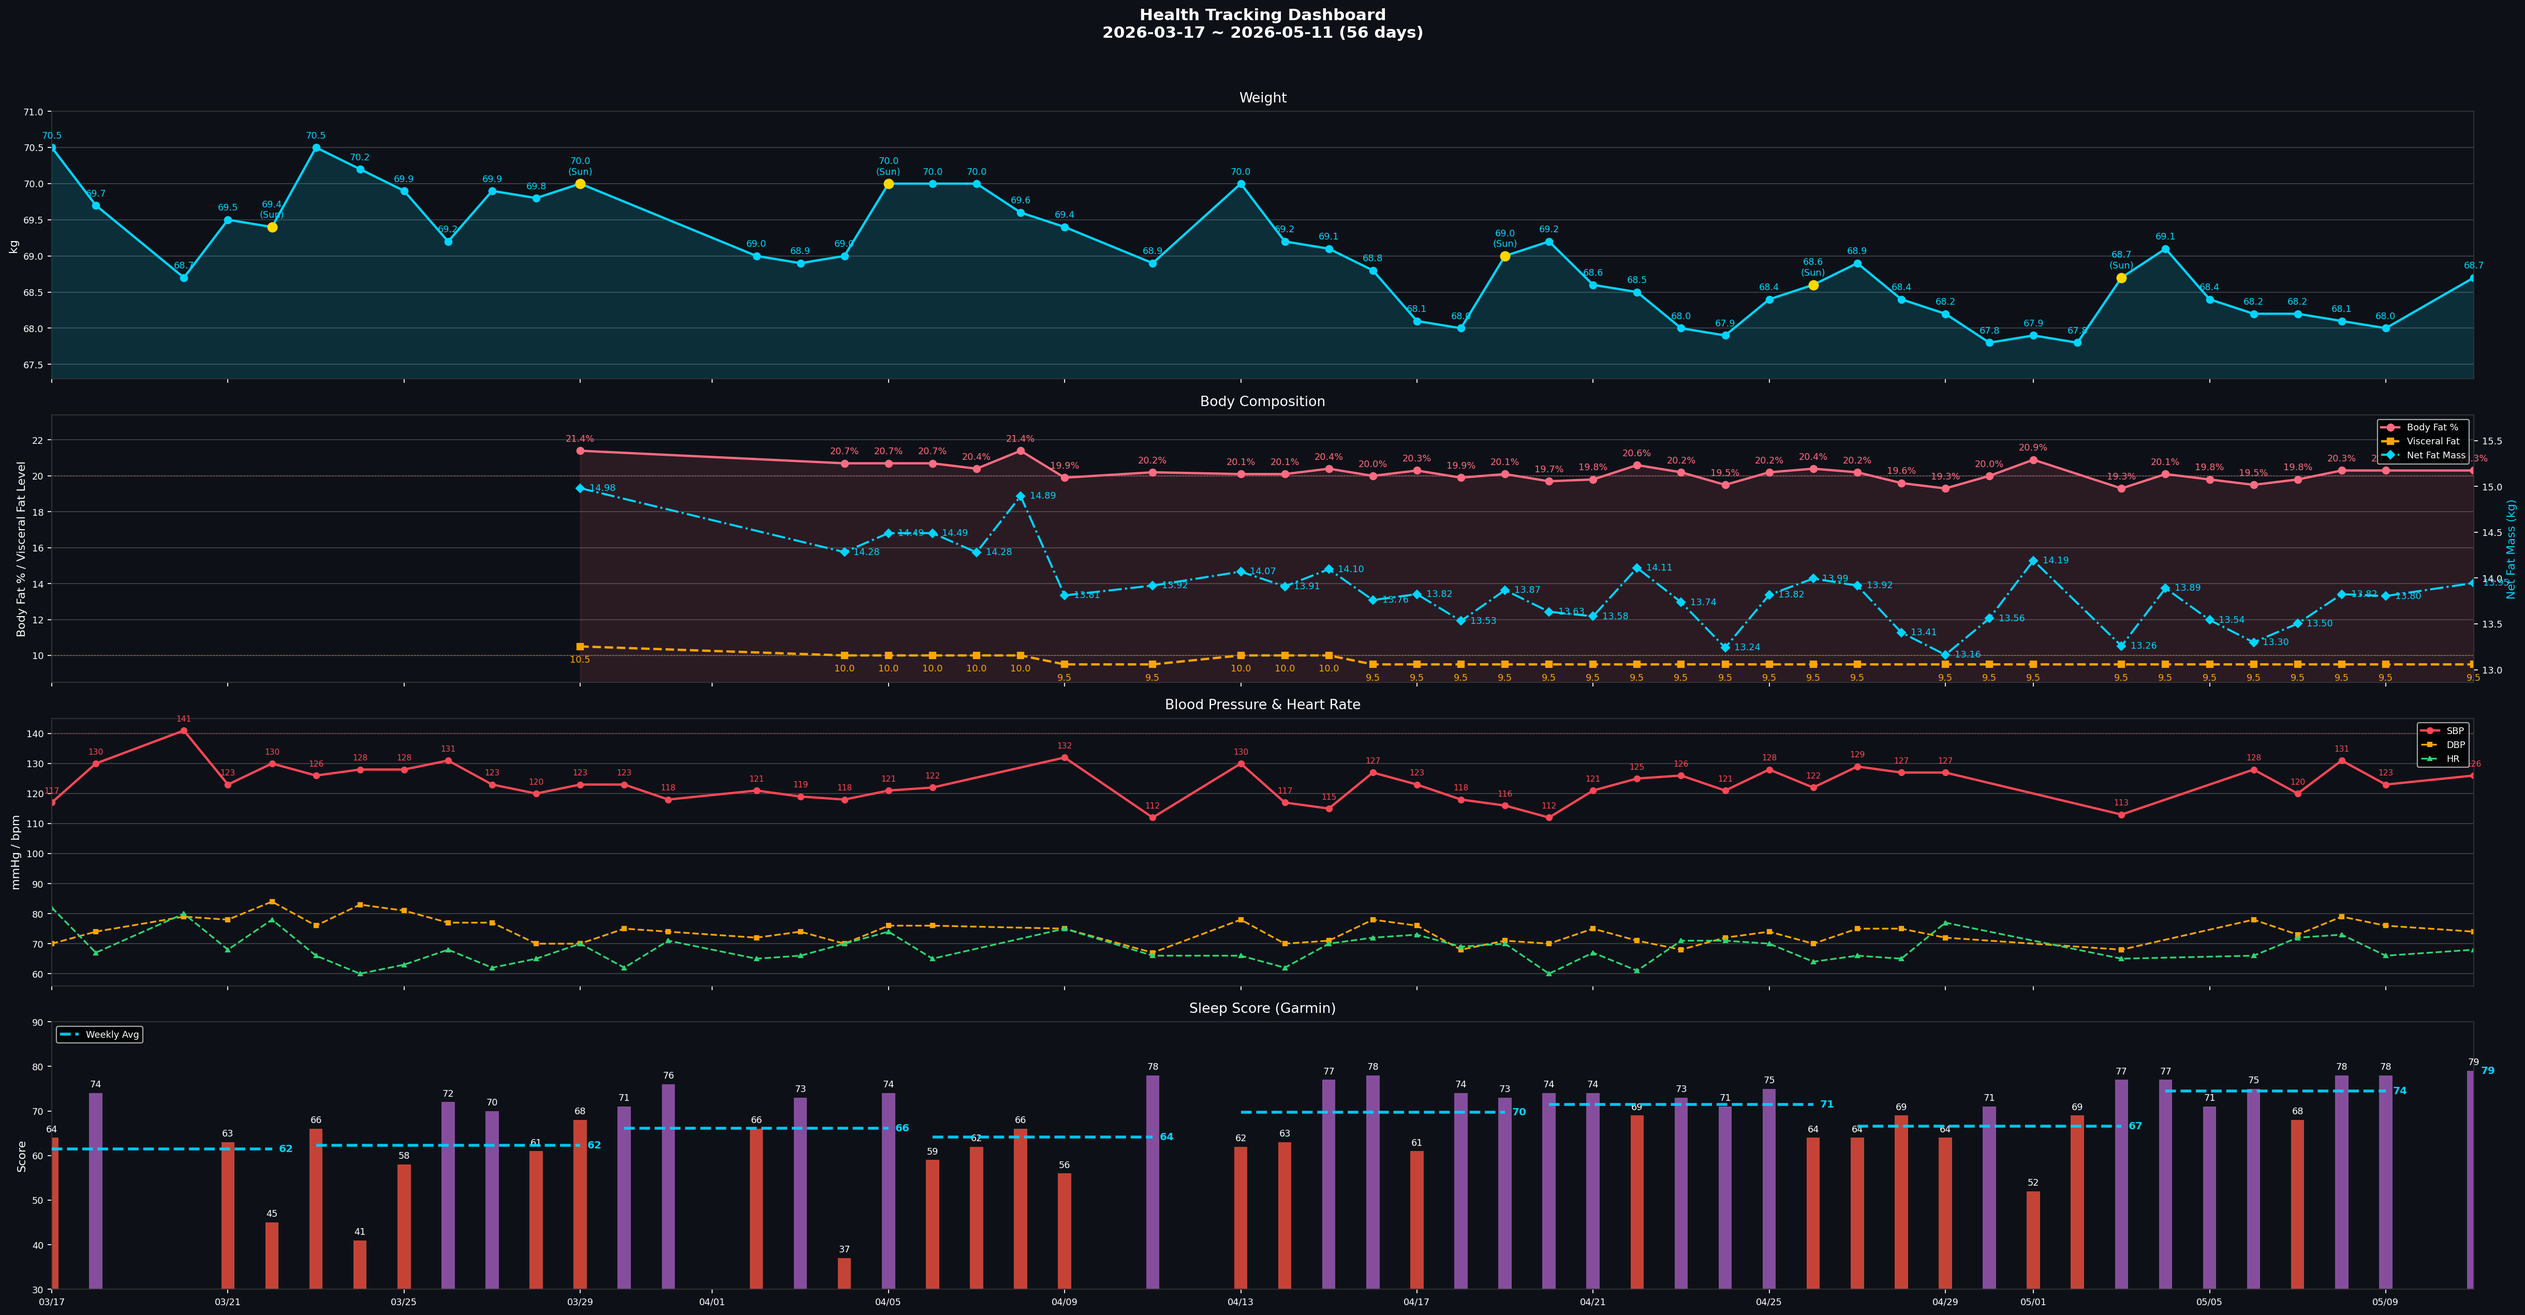
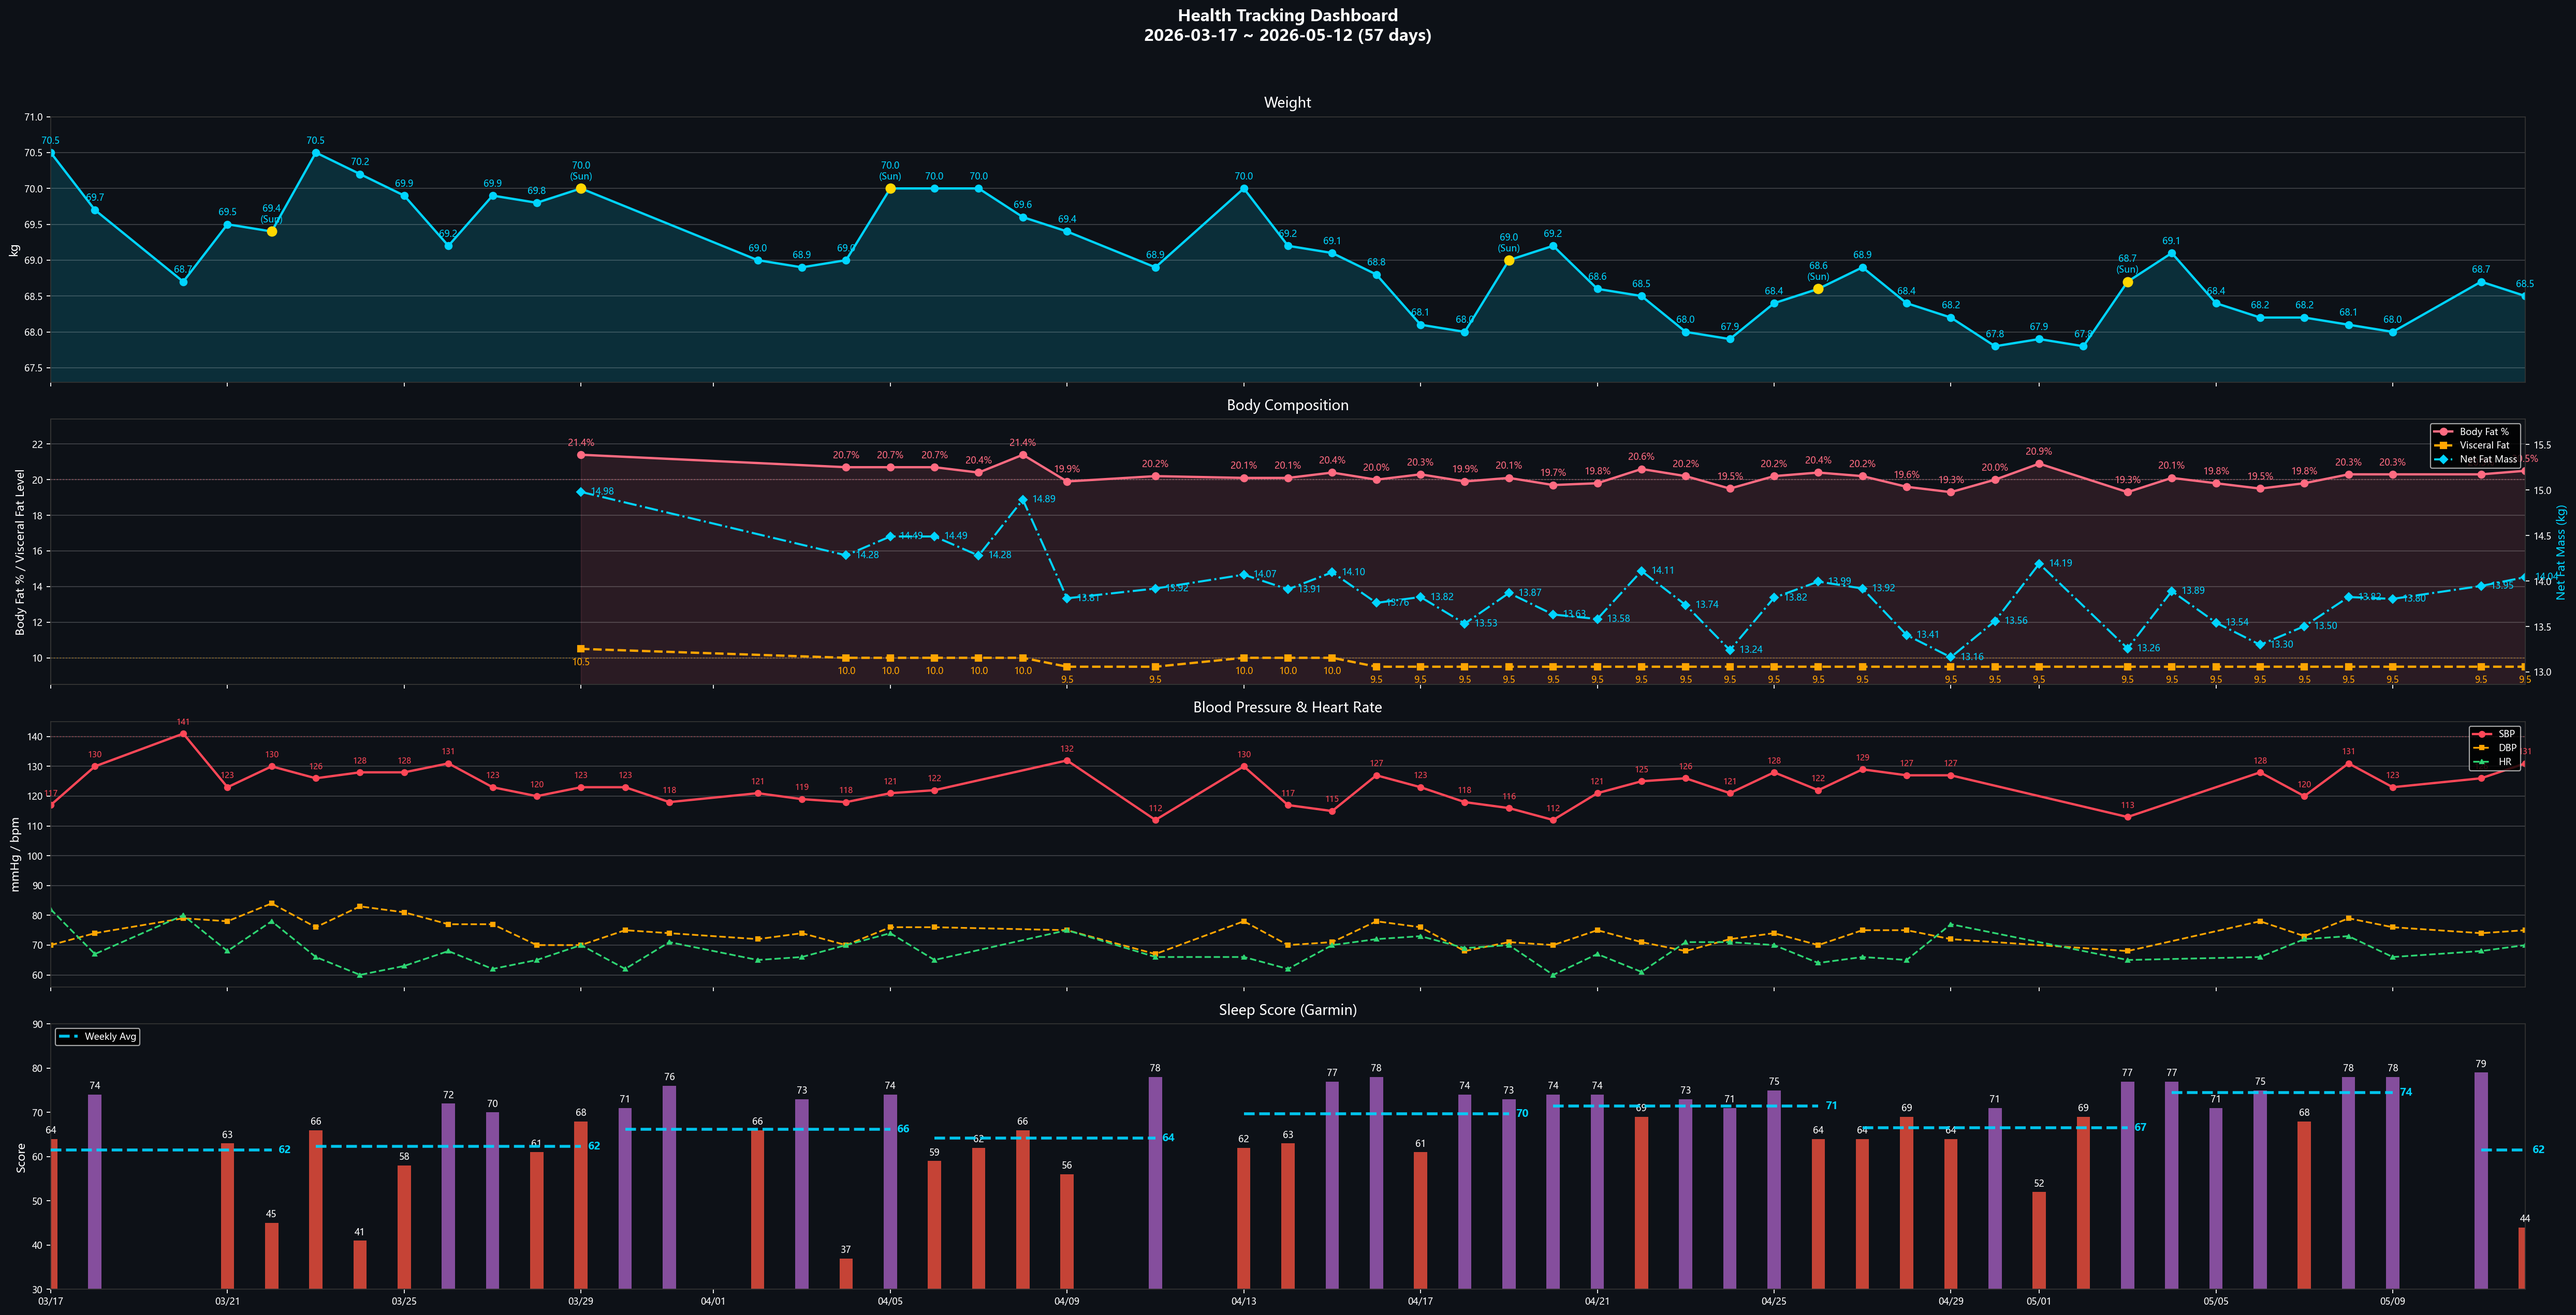
Daily check-in 2026-05-12：Sleep Score 44 / TST 4h / SpO2 連 7 晚 < 88%
- 體重 68.5kg / 體脂 20.5% / 內臟脂肪 9.5
- BP 131/75/70（正常範圍）
- Sleep Score 44、Body Battery 36、REM 0 分、TST 4h 4m → 紅旗
- SpO2 最低 86%，連 7/7 晚 < 88% → 本週內預約 PSG
- 昨日飲水 0.9L（連 2 天 < 2.0L）

diff --git a/data.js b/data.js
@@ -9,8 +9,8 @@ window.HC_DATA = {
     lede:    { en: "Sleep, BP, lipids, uric acid — one shared metabolic root. Lifestyle stacks first; medication only after lifestyle plateaus.",
                zh: "睡眠、血壓、血脂、尿酸——共享同一個代謝根源。生活方式介入優先，等到效果平台期再考慮藥物。" },
     progressLbl: { en: "Weight progress · 70 → 65 kg", zh: "體重進度 · 70 → 65 公斤" },
-    progressMeta: { en: "Day 56 · 68.0 kg · Sat official (5/9)", zh: "第 56 天 · 68.0 公斤 · 週六正式（5/9）" },
-    startDate: { en: "Start date · Mar 17, 2026 · Last sync 5/11", zh: "起始日期 · 2026 年 3 月 17 日 · 最後同步 5/11" },
+    progressMeta: { en: "Day 57 · 68.0 kg · Sat official (5/9)", zh: "第 57 天 · 68.0 公斤 · 週六正式（5/9）" },
+    startDate: { en: "Start date · Mar 17, 2026 · Last sync 5/12", zh: "起始日期 · 2026 年 3 月 17 日 · 最後同步 5/12" },
     startWeight: 70,
     targetWeight: 65,
     currentWeight: 68.0,
@@ -21,13 +21,13 @@ window.HC_DATA = {
     {
       sys: "heart", name: { en: "Blood Pressure", zh: "血壓" },
       val: "126/76", unit: "mmHg",
-      delta: { en: "W19 weekly avg (4 days) · target met (<130) · last 126/74 (5/11)", zh: "W19 週均（4 天）· 已達標 (<130) · 最新 126/74 (5/11)" },
+      delta: { en: "W19 weekly avg (4 days) · target met (<130) · last 131/75 (5/12)", zh: "W19 週均（4 天）· 已達標 (<130) · 最新 131/75 (5/12)" },
       cadence: { en: "Daily · weekly avg", zh: "每日 · 週均" },
       status: "ok",
     },
     {
       sys: "sleep", name: { en: "Sleep Score", zh: "睡眠分數" },
-      val: "79", unit: "Garmin",
+      val: "44", unit: "Garmin",
       delta: { en: "5/4 · OSA flag: T90 18.4% (severe)", zh: "5/4 · OSA 紅旗：T90 18.4%（重度）" },
       cadence: { en: "Daily · Garmin", zh: "每日 · Garmin" },
       status: "warn",
@@ -820,14 +820,14 @@ window.HC_DATA = {
   tracker: {
     // [SBP, DBP] — gaps filled with prior reading
     bp: [
-      [129,75], [127,75], [127,72], [127,72], [127,72], [127,72], [113,68], [113,68], [113,68], [128,78], [120,73], [131,79], [123,76], [126,74],
+      [127,75], [127,72], [127,72], [127,72], [127,72], [113,68], [113,68], [113,68], [128,78], [120,73], [131,79], [123,76], [126,74], [131,75],
     ],
     // 4/21–5/4 daily weight (kg)
-    weight: [68.9, 68.4, 68.2, 67.8, 67.9, 67.8, 68.7, 69.1, 68.4, 68.2, 68.2, 68.1, 68, 68.7],
+    weight: [68.4, 68.2, 67.8, 67.9, 67.8, 68.7, 69.1, 68.4, 68.2, 68.2, 68.1, 68, 68.7, 68.5],
     // Garmin Sleep Score
-    sleep:  [64, 69, 64, 71, 52, 69, 77, 77, 71, 75, 68, 78, 78, 79],
+    sleep:  [69, 64, 71, 52, 69, 77, 77, 71, 75, 68, 78, 78, 79, 44],
     // Body Battery waking
-    bb:     [57, 57, 58, 51, 47, 41, 54, 49, 47, 56, 47, 37, 48, 55],
+    bb:     [57, 58, 51, 47, 41, 54, 49, 47, 56, 47, 37, 48, 55, 36],
   },
 
   // ===== Running — started 2026-04-26 =====

diff --git a/reviews/daily/2026-05-12.md b/reviews/daily/2026-05-12.md
@@ -1,0 +1,98 @@
+# 晨間健康紀錄 — 2026-05-12
+
+*3 分鐘。起床後立即完成。記錄，不分析。*
+
+---
+
+## 體重
+
+**今日：68.5 kg**
+**體脂率：20.5 %**
+**內臟脂肪等級：9.5**
+
+*每週六早晨為正式紀錄（排尿後、進食前；連 5 個工作日後、週末大餐前的真實低點）。其他日可選填。*
+
+---
+
+## 血壓（晨間）
+
+*起床後 1 小時內，上完廁所、進食前。坐下安靜 5 分鐘，連量兩次取第二次。*
+
+| 次數 | 收縮壓 | 舒張壓 | 心率 |
+|------|--------|--------|------|
+| 第一次 | — | — | — |
+| 第二次 | 131 | 75 | 70 |
+
+---
+
+## 睡眠狀態
+
+**Garmin 偵測入睡：** 21:25
+**實際起床：** 01:31
+**中途醒來：** 無（但總時長僅 4h 4m，提早起床）
+**Garmin Sleep Score：** 44 / 100 ⚠（極低）
+**Garmin Body Battery 起床值：** 36 ⚠（< 50）
+**主觀恢復感：** 2 / 5（疲憊）
+**深眠：** 72 分｜**REM：** 0 分 ⚠（REM 缺失，常見於提早覺醒或睡眠片段化）
+
+### SpO2 夜間最低（7 晚趨勢）
+
+| 日期 | -6 | -5 | -4 | -3 | -2 | -1 | 今晨 |
+|------|----|----|----|----|----|----|------|
+| 日期 | 05-06 | 05-07 | 05-08 | 05-09 | 05-10 | 05-11 | 05-12 |
+| 最低 % | 84 | 79 | 87 | 85 | 84 | 84 | 86 |
+
+**今晨日均 SpO2：** 96%
+**< 88% 連續晚數：** **7/7 晚** → **OSA 紅旗，請本週內預約 PSG**（24 晚累計 100% 低於 88%；今晨 T90 = 20.4%、總 desat 50 分鐘）
+
+**SpO2 全夜圖：** ![](./spo2/spo2_desat_2026-05-12.png)
+**SpO2 趨勢圖：** ![](./spo2/spo2_desat_trend.png)
+**SpO2 多晚 Overlay（rolling 7 晚）：** ![](./spo2/spo2_overlay_2026-05-06_to_2026-05-12_elapsed.png)
+
+*Sleep Score 44 + Body Battery 36 + REM 0 + 總時長 4h — 此夜為近期最差組合；今日避免咖啡因晚於 12:00，傍晚補一段 20-30 min nap（< 30 min 不影響夜間入睡），晚上嚴格 21:30 上床。*
+
+---
+
+## 昨日回顧
+
+**實際飲水量：** 0.9 L ⚠（連 2 天 < 2.0L — 本週重點關注；高尿酸最佳 2.8–3.0L）
+**昨日活動消耗：** 317 kcal（主動 277 + BMR 40；騎車 ×2 + meditation 10 分）
+  - 在 100-300 kcal 區間 → 今日維持原計畫
+**昨日 Na / K / Na-K ratio：** 未紀錄（無 food log）
+
+---
+
+## 身體信號
+
+*任何張力、疼痛、疲勞、異常 — 或「清」。記位置、性質、強度。*
+
+| 部位 | 性質 | 強度 (0-10) |
+|------|------|-------------|
+| 雙腳 | 痠 | 3 |
+| 雙肩 | 緊繃 | 3 |
+
+---
+
+## 今日計畫速記
+
+- [ ] 飲水目標：2.5 L（17:00 前完成主要量；昨日 0.9L 嚴重落後，今日從 06:30 起每 90 min 飲 300 mL）
+- [ ] 補充品（核心）：
+  - 早餐：D3 2000 IU + K2 MK-7 180 mcg + L-Citrulline 4 g + 益生菌
+  - 午餐前 30 min：Psyllium 5 g + 350 mL 水
+  - 晚餐前 30 min：Psyllium 5 g + 350 mL 水
+  - 晚餐後：魚油 ×4（18:30 ×2 + 19:30 ×2）
+  - 睡前（21:00）：鎂甘胺酸 400 mg + 酸櫻桃 1000-2000 mg + Glycine 3 g
+  - 茶飲：洛神花 ×2 杯（早 + 14:00 前）
+  - 食物層：南瓜籽 30 g（15:30）+ 菇蕈 100-130 g/天
+- [ ] 運動（17:00 固定）：待定（雙腳痠 — 改低衝擊：Zone 2 騎車 30 min 或快走）
+- [ ] 活動度/伸展：雙肩門框胸肌伸展 + 肩胛繞環（09:30 + 20:30 兩次）、雙腳小腿牆推伸展 ×30 秒
+- [ ] Wind-down（20:00 燈光降 + 螢幕濾鏡，液體截止）
+- [ ] **嚴格 21:30 上床 / 熄燈 22:00**（補昨夜 TST 不足）
+
+---
+
+💡 PT 建議：今夜為近期最差睡眠（Sleep Score 44 / REM 0 / 僅 4h），加上 SpO2 連 7 晚 < 88%，**本週內務必預約 PSG**。雙腳痠 + 雙肩緊強度 3 屬可控範圍，今日避免高衝擊，改低衝擊 Zone 2；飲水昨日僅 0.9L 已連 2 天 < 2.0L，今日早午前完成 1.5L 為硬指標。
+
+---
+
+*Filed: reviews/daily/2026-05-12.md*

diff --git a/reviews/weekly/2026-W20.md b/reviews/weekly/2026-W20.md
@@ -31,9 +31,9 @@
 
 |  | 一 | 二 | 三 | 四 | 五 | 六 | 日 |
 |--|----|----|----|----|----|----|-----|
-| 體重 (kg) | 68.7 | | | | | | |
-| 體脂率 (%) | 20.3 | | | | | | |
-| 內臟脂肪 | 9.5 | | | | | | |
+| 體重 (kg) | 68.7 | 68.5 | | | | | |
+| 體脂率 (%) | 20.3 | 20.5 | | | | | |
+| 內臟脂肪 | 9.5 | 9.5 | | | | | |
 
 **本週正式讀數（週六早晨）：** _____ kg｜體脂率：_____%｜內臟脂肪：_____
 **上週正式讀數（週六早晨）：** _____ kg｜體脂率：_____%｜內臟脂肪：_____
@@ -46,7 +46,7 @@
 | 日期 | 收縮壓 | 舒張壓 | 心率 |
 |------|--------|--------|------|
 | 05-11 (一) | 126 | 74 | 68 |
-| 05-12 (二) | | | |
+| 05-12 (二) | 131 | 75 | 70 |
 | 05-13 (三) | | | |
 | 05-14 (四) | | | |
 | 05-15 (五) | | | |
@@ -64,7 +64,7 @@
 | 日期 | 就寢 | 起床 | 中途醒 | Sleep Score | Body Battery | 主觀恢復 |
 |------|------|------|--------|-------------|--------------|----------|
 | 05-11 (一) | 21:46 | 06:01 | 0 | 79 | 55 | 3 |
-| 05-12 (二) | | | | | | |
+| 05-12 (二) | 21:25 | 01:31 | 0 | 44 | 36 | 2 |
 | 05-13 (三) | | | | | | |
 | 05-14 (四) | | | | | | |
 | 05-15 (五) | | | | | | |
@@ -85,7 +85,8 @@
 
 | 信號（部位+性質） | 出現天數 | 平均強度 | 趨勢（↑↓→） | 備註 |
 |-------------------|----------|----------|-------------|------|
-| 雙肩 緊繃 | 1 | 3 | → | 首日記錄 |
+| 雙肩 緊繃 | 2 | 3 | → | 連 2 天 |
+| 雙腳 痠 | 1 | 3 | → | 首日記錄 |
 
 **反覆出現（≥ 3 天）：** 無
 
@@ -108,7 +109,8 @@
 
 | 日期 | 運動內容（含組數/時間） |
 |------|------------------------|
-| 05-11 | 依預設計畫 |
+| 05-11 | 騎車 30.4 min（兩段）+ meditation 10 min；主動 277 kcal |
+| 05-12 | 待定（雙腳痠 → 改低衝擊 Zone 2 騎車或快走 30 min） |
 
 ---
 
@@ -135,8 +137,9 @@
 
 | 警報 | 應對措施 | 效果 |
 |------|----------|------|
-| SpO2 連續 6/7 晚 < 88%（05-11 T90=22.2%） | 預約 PSG 多項睡眠檢查 | 待 |
-| 昨日飲水 1.5L < 2.0L | 本週重點關注；17:00 前完成 60-70% 目標量 | 待 |
+| SpO2 連 7/7 晚 < 88%（05-12 T90=20.4%、50 min desat） | 預約 PSG 多項睡眠檢查（本週內） | 待 |
+| Sleep Score 44 + BB 36 + REM 0（05-12，TST 4h 4m） | 今日 21:30 嚴格上床；咖啡因 ≤ 12:00；補 20-30 min nap | 待 |
+| 連 2 天飲水 < 2.0L（05-10 0L、05-11 0.9L） | 今日 06:30 起每 90 min 飲 300 mL；早午前完成 1.5L | 待 |
 
 ---
 

diff --git a/reports/daily-garmin/2026-05-11.md b/reports/daily-garmin/2026-05-11.md
@@ -12,13 +12,13 @@
 - RHR：58.0 bpm
 
 ## 壓力
-- 日均：25
+- 日均：28
 
 ## 步數
-- 總計：4,858
+- 總計：7,799
 
 ## SpO2
-- 日均：96.0%
+- 日均：95.0%
 - 最低：84%
 
 ## 活動
@@ -26,11 +26,12 @@
 |------|------|------|------|---------|---------|-----------|--------|
 | 08:59 | cycling | 1.54 km | 10.8 min | 132 | 149 | 92 | 106 |
 | 12:38 | cycling | 4.61 km | 19.6 min | 143 | 163 | 185 | 211 |
-| **小計** | 2 段 | **6.15 km** | **30.4 min** | — | — | **277** | **317** |
+| 20:55 | meditation | 0.00 km | 10.0 min | 75 | 101 | 0 | 0 |
+| **小計** | 3 段 | **6.15 km** | **40.4 min** | — | — | **277** | **317** |
 
 ## 飲水
 - 實際：0.90 L
 - 目標：2.00 L
-- 運動流汗耗水：0.47 L
+- 運動流汗耗水：0.55 L
 
 _Source: data/garmin/2026-05-11.json (gitignored)_

diff --git a/reports/daily-garmin/2026-05-12.md b/reports/daily-garmin/2026-05-12.md
@@ -1,0 +1,33 @@
+# Garmin 每日摘要 — 2026-05-12
+
+## 睡眠
+- 就寢：21:25｜起床：01:31
+- 總時長：4h 4m
+- 深眠：72 分｜REM：0 分
+- Sleep Score：44
+- Body Battery 起床值：36
+
+## 靜息心率
+- RHR：60.0 bpm
+
+## 壓力
+- 日均：27
+
+## 步數
+- 總計：3,930
+
+## SpO2
+- 日均：96.0%
+- 最低：86%
+
+## 活動
+| 時段 | 類型 | 距離 | 時長 | 平均 HR | 最大 HR | 主動 kcal | 含 BMR |
+|------|------|------|------|---------|---------|-----------|--------|
+| 09:27 | cycling | 1.15 km | 32.9 min | 98 | 156 | 130 | 174 |
+
+## 飲水
+- 實際：0.00 L
+- 目標：2.00 L
+- 運動流汗耗水：0.36 L
+
+_Source: data/garmin/2026-05-12.json (gitignored)_
